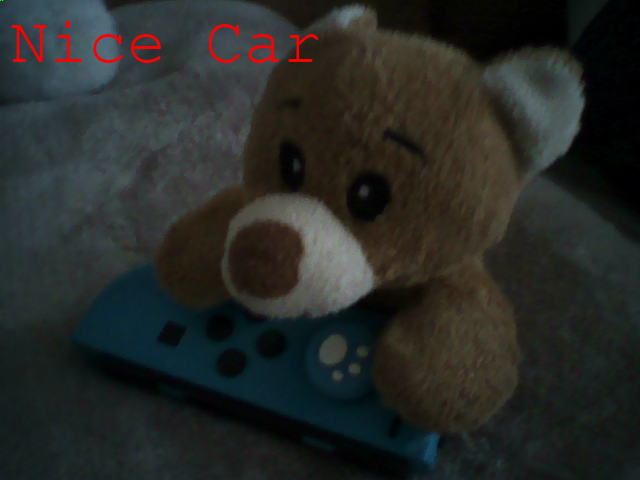
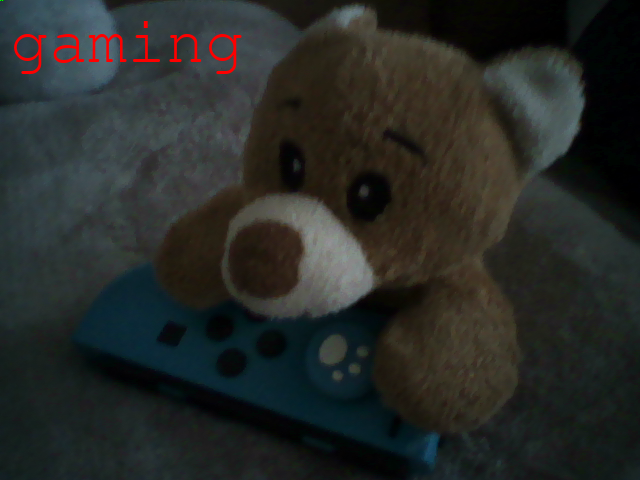
intentando hacer las imagenes

Changed region(s): [[0.0, 0.0312, 0.5, 0.1562]]

diff --git a/controller/images.py b/controller/images.py
@@ -1,22 +1,44 @@
 from PIL import Image
 from PIL import ImageDraw
 from PIL import ImageFont
+from typing import List 
+import textwrap
 
-def imageWork(image, string):
+def imageWork(image_template_name: str, caption: str, startcorner: List[int], endcorner: List[int], font: str = "FreeMono"):
     # Open an Image
-    img = Image.open('image-templates/gaming.png')
+    img = Image.open(f'image-templates/{image_template_name}.png')
 
     # Call draw Method to add 2D graphics in an image
     I1 = ImageDraw.Draw(img)
 
     # Custom font style and font size
-    myFont = ImageFont.truetype('FreeMono.ttf', 65)
+    font_size = 24
+    myFont = ImageFont.truetype(f'image-templates/fonts/{font}.ttf', font_size)
 
-    # Add Text to an image
-    I1.text((10, 10), "Nice Car", font=myFont, fill =(255, 0, 0))
+    rect_width = endcorner[0] - startcorner[0]
 
-    # Display edited image
-    img.show()
+# Calculate max characters per line based on rectangle width
+    # This is a rough estimate; you may need to adjust it
+    avg_char_width = font_size * 0.2  # Approximate average character width
+    max_chars_per_line = int(rect_width / avg_char_width)
+
+    # Wrap the text to fit within the rectangle's width
+    wrapped_text = textwrap.fill(caption, width=max_chars_per_line)
+
+    # Split the wrapped text into lines
+    lines = wrapped_text.split('\n')
+
+    # Calculate the total height required for the text
+    line_height = font_size * 0.6  # Approximate line height
+    total_text_height = len(lines) * line_height
+
+    y_text = 10
+    font_color = "#00FFFF"
+    max_lines = 10
+
+    for line in lines[:max_lines]:  # Limit the number of lines to prevent overflow
+        I1.text((10, y_text), line, font=myFont, fill=font_color)
+        y_text += font_size  # Move down for the next line
 
     # Save the edited image
-    img.save("gaming.png")
+    img.save(f"image-templates/tmp/{image_template_name}CAP{caption}.png")

diff --git a/controller/bot.py b/controller/bot.py
@@ -46,10 +46,12 @@ async def hello(interaction: discord.Interaction):
     await interaction.response.send_message(f'Hi, {interaction.user.mention}')
 
 @bot.tree.command()
-async def template(interaction: discord.Interaction, message: str):
+async def template(interaction: discord.Interaction, image_name:str, caption: str):
     # Edita una imagen con una caption
-    images.imageWork()
-    await interaction.response.send_message(f'Hola tonto ({interaction.user.mention}), me has dicho: {message}')
+    images.imageWork(image_template_name=image_name, caption=caption, startcorner=[10,10], endcorner=[100, 100])
+    file_path = f'image-templates/tmp/{image_name}CAP{caption}.png'
+    file = discord.File(file_path, filename=f"{image_name}CAP{caption}.png")
+    await interaction.response.send_message(file=file)
 
 
 @bot.event
